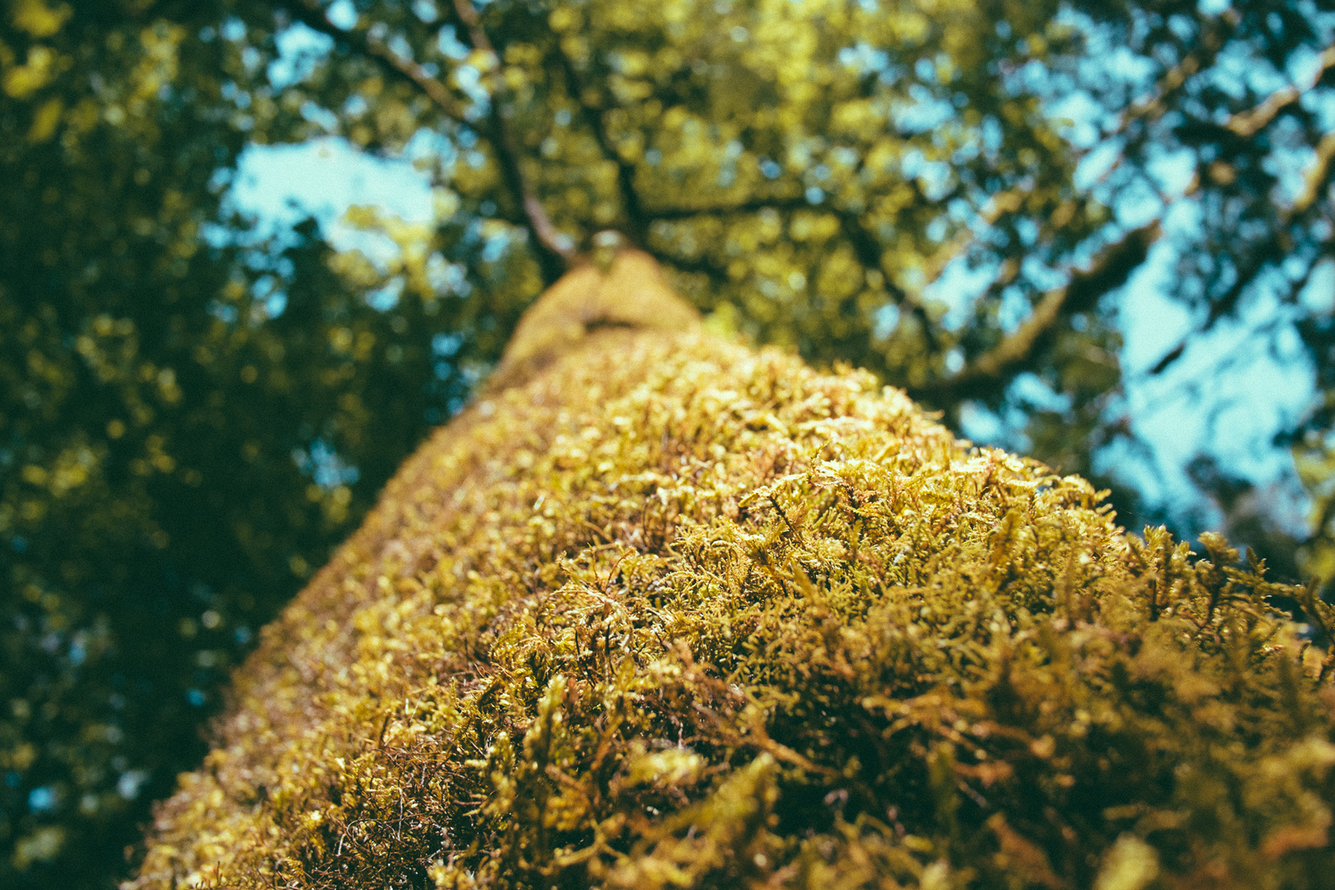
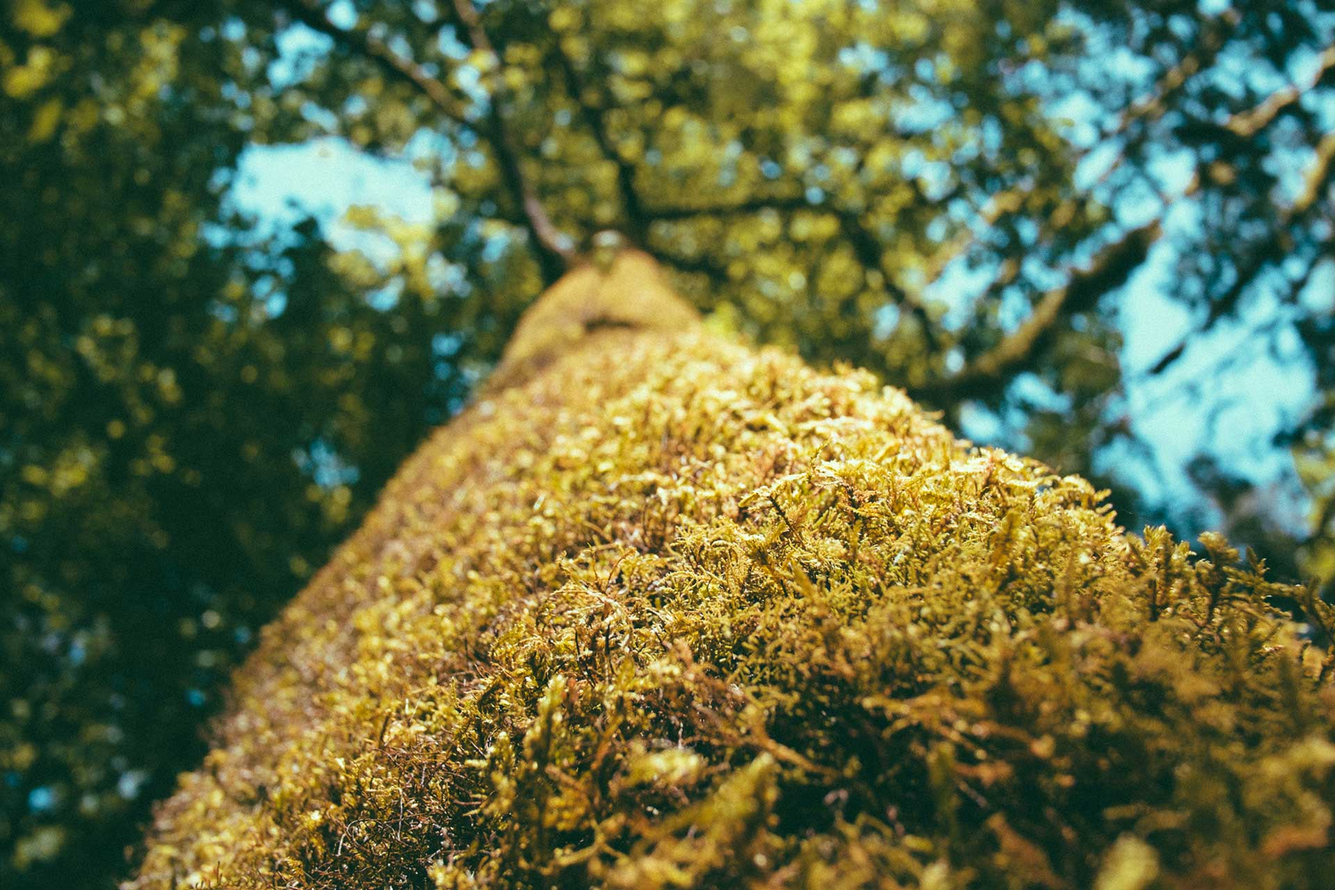
Optimize images and css

Changed region(s): [[0.3438, 0.5, 0.7812, 0.8438], [0.2188, 0.8438, 0.3438, 1.0]]

diff --git a/app.rb b/app.rb
@@ -132,6 +132,7 @@ before do
   if Sinatra::Base.development?
     Project.clear_projects!
     Post.clear_posts!
+    $scss_cache = nil
     $git = nil
   end
   begin
@@ -227,5 +228,5 @@ end
 
 # helpers
 get '/main.css' do
-  scss :main
+  $css_cache ||= (scss :main, :style => :compressed)
 end
